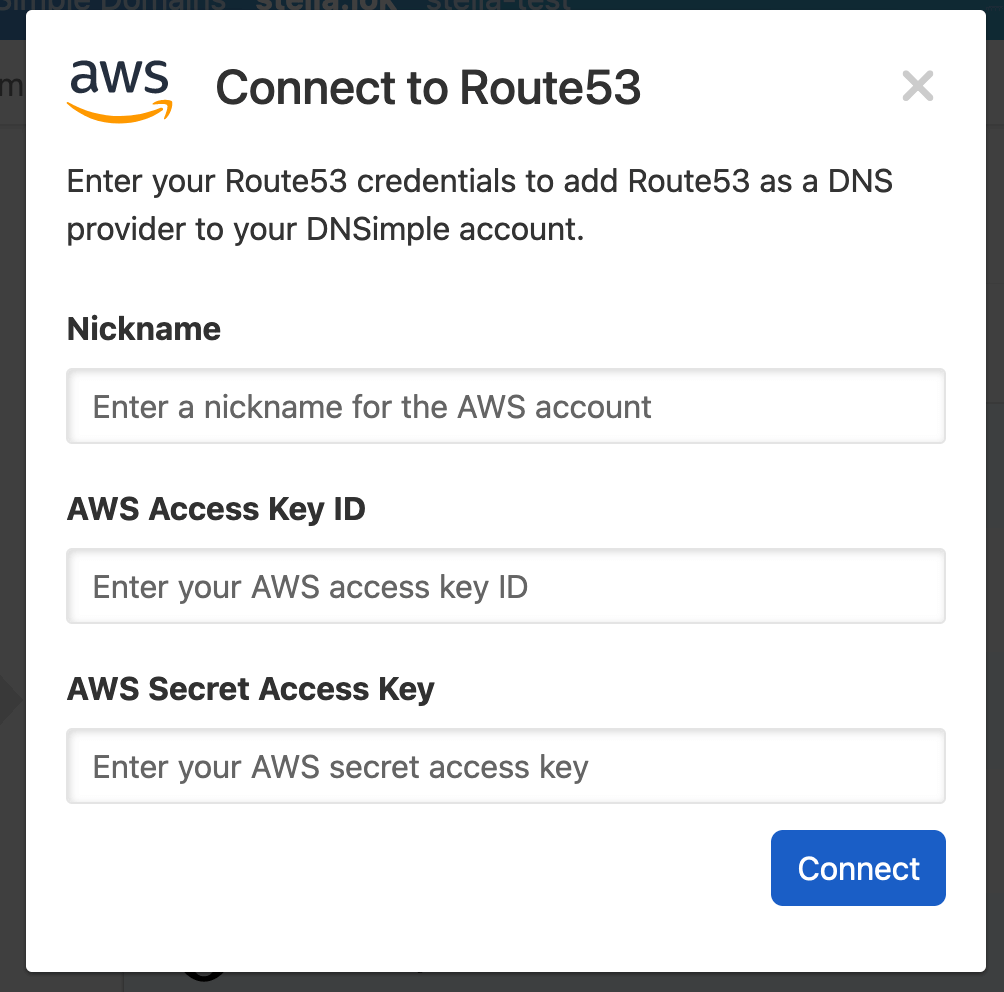
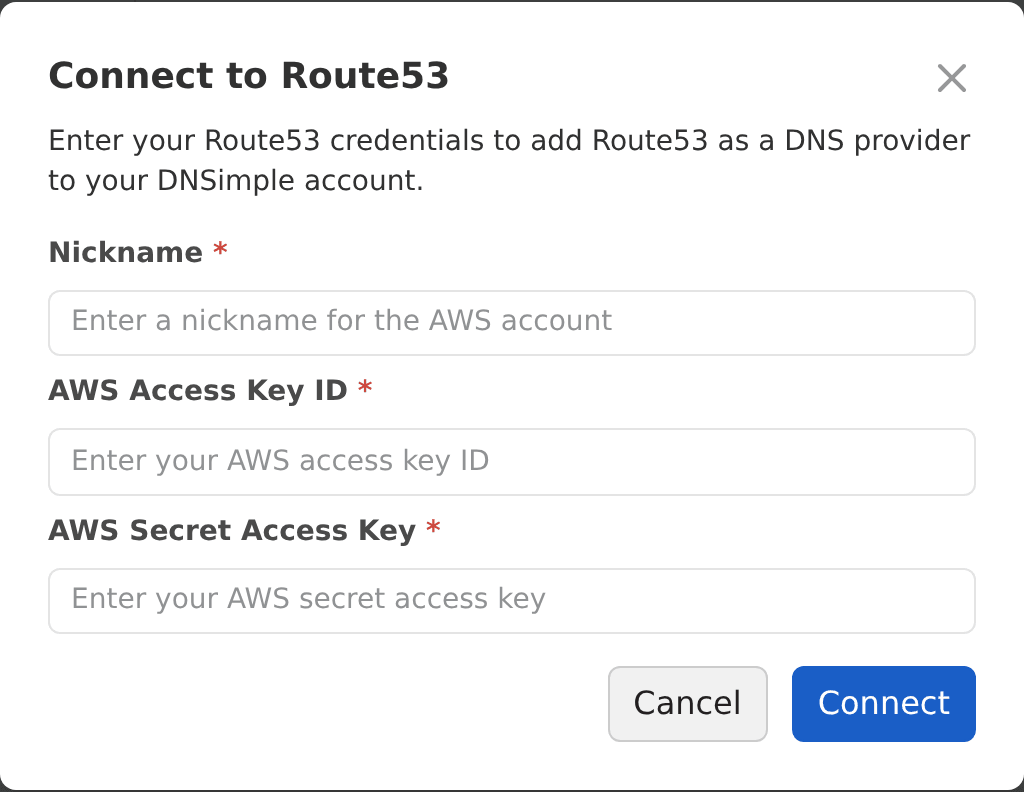
Reshoot the Connect to Route53 dialog
Captured from the sandbox app with the dialog opened in place, clipped to
the dialog panel. Annotation added so future refreshes pick it up.

The other eleven images in this batch are zone and record dialogs that
need domains and a linked provider on the screenshot account; see the
notes on #2093.

Changed region(s): [[0.0, 0.0, 1.0, 1.0], [0.5867, 0.9091, 0.6175, 0.9394]]

diff --git a/content/articles/integrated-dns-providers.md b/content/articles/integrated-dns-providers.md
@@ -23,7 +23,7 @@ categories:
 ![Connect an Integrated DNS Provider](/files/account-integrated-provider-link.png)
 1. Fill in any required parameters for the Integrated DNS Provider configuration.
 1. Fill in any necessary credentials for your account at the Integrated DNS Provider.
-![Enter Integrated DNS Provider credentials](/files/account-external-provider-link-credentials.png)
+![Enter Integrated DNS Provider credentials](/files/account-external-provider-link-credentials.png) <!-- capture: /a/{account}/account/integrated_providers#external-provider-route53-dialog -->
 1. After successfully connecting the Integrated DNS Provider, you will be able to view a list of the zones that are at that provider *(except for CoreDNS, which does not list zones)*. Select the zones you want to import into DNSimple, and click **Add zones**.
 ![Add zones after connecting an Integrated DNS Provider](/files/account-integrated-dns-provider-connect-add-zones.png)
 1. If you selected any zones to import into DNSimple, you will be redirected to the [Domain Names](/articles/managing-integrated-zones/) page where the zone import will start.
